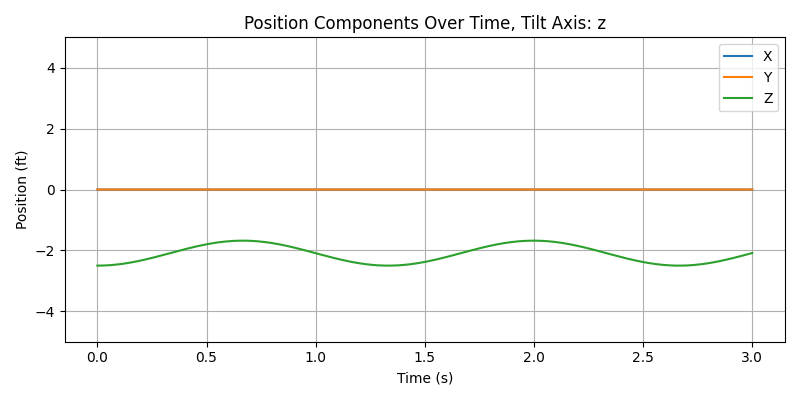
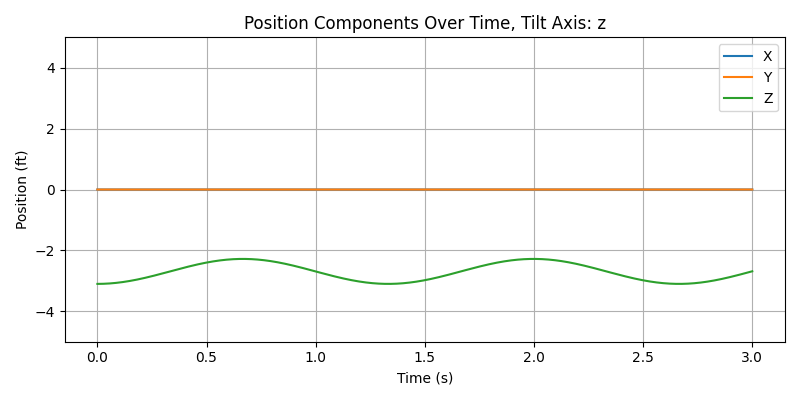
encoder testing, and updated model to show lengths

diff --git a/modeling/dynamic_models/3_Tether_Dynamic_Model.py b/modeling/dynamic_models/3_Tether_Dynamic_Model.py
@@ -119,7 +119,7 @@ def simulate_tilting_motion(time_steps, dt, initial_height, tilt_axis='x'):
     
     return positions, np.column_stack((x_tilt, y_tilt))
 
-def plot_simulation_results(time_vec, positions, angles, f_errors, ang_errors, apex_error, torques, tilt_axis, tether1vec, tether2vec, tether3vec, err_teth_one_vec, err_teth_two_vec, err_teth_three_vec, max_hip_tilt):
+def plot_simulation_results(time_vec, positions, angles, f_errors, ang_errors, apex_error, torques, tilt_axis, tether1vec, tether2vec, tether3vec, err_teth_one_vec, err_teth_two_vec, err_teth_three_vec, max_hip_tilt, length_vec):
     # Set figure size and style for all plots
     plt.style.use('default')
     figsize = (8, 4)
@@ -174,6 +174,20 @@ def plot_simulation_results(time_vec, positions, angles, f_errors, ang_errors, a
     ax3.set_ylim([-5, 5])
     plt.tight_layout()
     fig3.savefig(f'plots_report/3_tether_position_{tilt_axis}_mass_{p.mass}.png')
+
+    # length components plot
+    fig20 = plt.figure(figsize=figsize)
+    ax20 = fig20.add_subplot(111)
+    ax20.plot(time_vec, length_vec[:, 0], label='1')
+    ax20.plot(time_vec, length_vec[:, 1], label='2')
+    ax20.plot(time_vec, length_vec[:, 2], label='3')
+    ax20.set_xlabel('Time (s)')
+    ax20.set_ylabel('length (ft)')
+    ax20.set_title(f'Tether lengths over time, Tilt Axis: {tilt_axis}')
+    ax20.grid(True)
+    ax20.legend()
+    # ax15.set_ylim([-5, 5])
+    plt.tight_layout()
     
     # Force error plot
     fig4 = plt.figure(figsize=figsize)
@@ -380,6 +394,7 @@ def main():
     tether1_vec = np.zeros((time_steps, 3))
     tether2_vec = np.zeros((time_steps, 3))
     tether3_vec = np.zeros((time_steps, 3))
+    length_vec = np.zeros((time_steps, 3))
     err_teth_one_vec = np.zeros(time_steps)
     err_teth_two_vec = np.zeros(time_steps)
     err_teth_three_vec = np.zeros(time_steps)
@@ -410,6 +425,7 @@ def main():
         teth1_len_rotated[i], teth2_len_rotated[i], teth3_len_rotated[i], teth1_cord_rotated[i], teth2_cord_rotated[i], teth3_cord_rotated[i] = calculate_tether_lengths_rotated(tilt_angle_rad[i], COM, tether1_horz_coord[i], tether2_horz_coord, tether3_horz_coord, tilt_axis)
         # Calculate tether properties
         _, _, _, teth_lengths, teth1_rotated[i], teth2_rotated[i], _= calculate_tether_vecs(COM, teth_anchor, offset)
+        length_vec[i] = teth_lengths
 
         # tether error due to tilt
         teth1_err = teth1_len_rotated[i] - teth_lengths[0]
@@ -462,7 +478,7 @@ def main():
 
     # Plot results
     plot_simulation_results(time_vec, positions, tilt_angles, f_errors, ang_errors, apex_error, torques, tilt_axis,
-                            tether1_vec, tether2_vec, tether3_vec, err_teth_one_vec, err_teth_two_vec, err_teth_three_vec, max_hip_tilt)
+                            tether1_vec, tether2_vec, tether3_vec, err_teth_one_vec, err_teth_two_vec, err_teth_three_vec, max_hip_tilt, length_vec)
     
     plt.show()
    

diff --git a/modeling/dynamic_models/2_Tether_Dynamic_Model.py b/modeling/dynamic_models/2_Tether_Dynamic_Model.py
@@ -92,7 +92,7 @@ def simulate_tilting_motion(time_steps, dt, initial_height, tilt_axis):
     
     return positions, y_tilt
 
-def plot_simulation_results(time_vec, positions, angles, f_errors, ang_errors, apex_error, torques, tilt_axis, tether1vec, tether2vec, err_teth_one_vec, err_teth_two_vec, max_hip_tilt):
+def plot_simulation_results(time_vec, positions, angles, f_errors, ang_errors, apex_error, torques, tilt_axis, tether1vec, tether2vec, err_teth_one_vec, err_teth_two_vec, max_hip_tilt, length_vec):
     # Set figure size and style for all plots
     plt.style.use('default')
     figsize = (8, 4)
@@ -113,6 +113,7 @@ def plot_simulation_results(time_vec, positions, angles, f_errors, ang_errors, a
 
     ax1.grid(True)
     plt.tight_layout()
+
 
     
     # Tilt angle plot
@@ -141,6 +142,19 @@ def plot_simulation_results(time_vec, positions, angles, f_errors, ang_errors, a
     ax3.set_ylim([-5, 5])
     plt.tight_layout()
     fig3.savefig(f'plots_report/2_tether_position_{tilt_axis}_mass_{p.mass}.png')
+
+    # length components plot
+    fig15 = plt.figure(figsize=figsize)
+    ax15 = fig15.add_subplot(111)
+    ax15.plot(time_vec, length_vec[:, 0], label='1')
+    ax15.plot(time_vec, length_vec[:, 1], label='2')
+    ax15.set_xlabel('Time (s)')
+    ax15.set_ylabel('length (ft)')
+    ax15.set_title(f'Tether lengths over time, Tilt Axis: {tilt_axis}')
+    ax15.grid(True)
+    ax15.legend()
+    # ax15.set_ylim([-5, 5])
+    plt.tight_layout()
     
     # Force error plot
     fig4 = plt.figure(figsize=figsize)
@@ -303,6 +317,7 @@ def main():
     # Arrays to store tether force vectors
     tether1_vec = np.zeros((time_steps, 2))
     tether2_vec = np.zeros((time_steps, 2))
+    length_vec = np.zeros((time_steps, 2))
 
     err_teth_one_vec = np.zeros(time_steps)
     err_teth_two_vec = np.zeros(time_steps)
@@ -326,6 +341,7 @@ def main():
         teth1_len_rotated[i], teth2_len_rotated[i], teth1_cord_rotated[i], teth2_cord_rotated[i] = calculate_tether_lengths_rotated(tilt_angle_rad[i], COM, tether1_horz_coord, tether2_horz_coord, tilt_axis)
         # Calculate tether properties
         _, _, teth_lengths = calculate_tether_vecs(COM, teth_anchor, offset)
+        length_vec[i] = teth_lengths
 
         # tilte error included
         teth1_err = teth1_len_rotated[i] - teth_lengths[0]
@@ -370,7 +386,7 @@ def main():
         # torques[i] = np.linalg.norm(calculate_applied_torque(COM, tilt_angles[i, 0], tilt_angles[i, 1], f, r))
 
     # Plot results
-    plot_simulation_results(time_vec, positions, tilt_angles, f_errors, ang_errors, apex_error, torques, tilt_axis, tether1_vec, tether2_vec, err_teth_one_vec, err_teth_two_vec, max_hip_tilt)
+    plot_simulation_results(time_vec, positions, tilt_angles, f_errors, ang_errors, apex_error, torques, tilt_axis, tether1_vec, tether2_vec, err_teth_one_vec, err_teth_two_vec, max_hip_tilt, length_vec)
 
     plt.show()
 if __name__ == "__main__":

diff --git a/implementation/encoder_phidget.py b/implementation/encoder_phidget.py
@@ -1,12 +1,23 @@
 # general encoder class that receives encoder data from the phidget board
 
 from Phidget22.Devices.Encoder import *
+import numpy as np
+
 class phidget_encoder:
     def __init__(self, channel):
         self.encoder = Encoder()
         self.encoder.setChannel(channel)
         self.encoder.openWaitForAttachment(5000)
+        self.spool_radius = 1.07  # inches (1 inch spool rad and 0.7 inches for tether width)
         self.angle = 0.0
+        self.length = 0.0
+        self.init_l = 0.0
+        self.init_length()
+        # self.spool_width = 1.0  # inches
+        # self.angle2length_factor = 1  # inches/degree
+
+    def init_length(self):
+        self.init_l = float(input("input initial length (in):"))
 
     # position to degrees helper function
     def position_to_degrees(self, position):
@@ -18,6 +29,11 @@ class phidget_encoder:
         position = self.encoder.getPosition()
         self.angle = self.position_to_degrees(position)
         return self.angle
+
+    def angle2length(self):
+        self.length = self.init_l + (self.angle/360)*(2*np.pi*self.spool_radius)
+        return self.length
+
 
     # close encoder instance
     def close_encoder(self):

diff --git a/modeling/dynamic_models/Parameters_3_Tether_Dynamic_Model.py b/modeling/dynamic_models/Parameters_3_Tether_Dynamic_Model.py
@@ -3,10 +3,10 @@ import numpy as np
 class Parameters:
     mass = 100.0  # person's weight (lb)
     r = 2 / (2 * np.pi)  # waist radius (ft)
-    waist_height = -2.5
+    # waist_height = -2.5
     # mass = 200.0  # person's weight (lb)
     # r = 3 / (2 * np.pi)  # waist radius (ft)
-    # waist_height = -3.1
+    waist_height = -3.1
 
     # tether anchor loc 3x3 each row is the vector for each tether
     teth_anchor = [[-2,                      0.0,                     0.0],

diff --git a/modeling/dynamic_models/length_static_error.py b/modeling/dynamic_models/length_static_error.py
@@ -7,8 +7,7 @@ import itertools
 import matplotlib
 import matplotlib.pyplot as plt
 import matplotlib.animation as animation
-from mpl_toolkits.mplot3d import Axes3D
-import Dynamic_model_3teth_revC
+from modeling.dynamic_models.model_archive import Dynamic_model_3teth_revC
 from tqdm import tqdm
 matplotlib.rcParams['animation.ffmpeg_path'] = r'C:\Users\Peter\OneDrive\Desktop\ffmpeg\ffmpeg-2024-11-18-git-970d57988d-full_build\bin\ffmpeg.exe'
 

diff --git a/implementation/encoder_length_testing.py b/implementation/encoder_length_testing.py
@@ -1,0 +1,17 @@
+# testing encoder to length conversion
+
+
+import serial
+import keyboard
+import time
+from encoder_phidget import phidget_encoder
+import threading
+import string
+
+# setup encoder, channel 0
+encoder = phidget_encoder(0)
+
+while True:
+    degrees = encoder.get_angle()
+    length = encoder.angle2length()
+    print(f"deg: {degrees}, L: {length}")

diff --git a/modeling/dynamic_models/Parameters_2_Tether_Dynamic_Model.py b/modeling/dynamic_models/Parameters_2_Tether_Dynamic_Model.py
@@ -6,7 +6,7 @@ class Parameters:
     # waist_height = -2.5
     mass = 200.0  # person's weight (lb)
     r = 3 / (2 * np.pi)  # waist radius (ft)
-    waist_height = -3.1
+    waist_height = -2.5
 
     # tether anchor loc 3x3 each row is the vector for each tether
     # assuming anchor locations are radially 2 feet away from person 120 degrees away from each other
